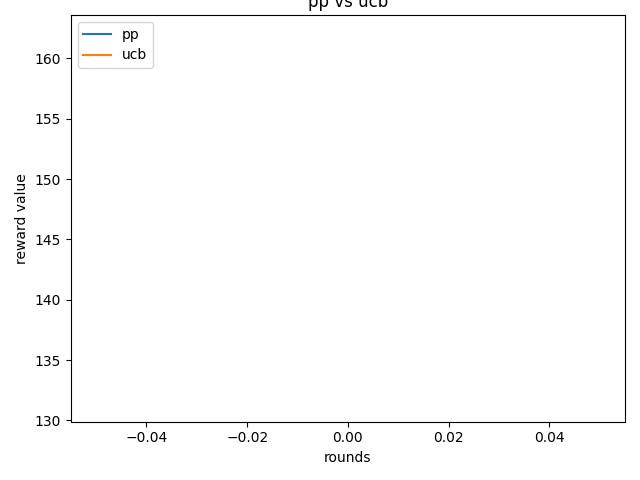
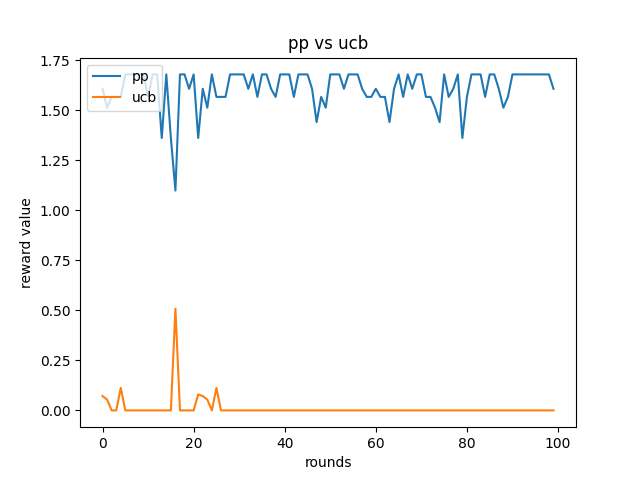
update plot

diff --git a/simulator.py b/simulator.py
@@ -207,6 +207,7 @@ def simulation(rounds=2):
         print("Reard for best action based on Perceptron: ", pp_reward)
         pp_total_reward += pp_reward
         print("\npp total_reward=", pp_total_reward)
+        pp_total_reward_dataset.append(pp_reward)
 
         #Obtain feedback by selecting from calendars with rewards greater than or equal to the reward
         feedback_calendars = []
@@ -223,13 +224,11 @@ def simulation(rounds=2):
         feedback_reward = np.dot(preference, featureListGenerator(feedback, [number_of_slots]))
         pp_total_feedback_reward += feedback_reward
         print("\npp total_feedback_reward=", pp_total_feedback_reward)
+        pp_total_feedback_reward_dataset.append(feedback_reward)
 
         pp_total_regret += abs(pp_reward - feedback_reward)
+        pp_total_regret_dataset.append(abs(pp_reward - feedback_reward))
         print("\npp total_regret=", pp_total_regret)
-
-        pp_total_reward_dataset.append(pp_total_reward)
-        pp_total_feedback_reward_dataset.append(pp_total_feedback_reward)
-        pp_total_regret_dataset.append(pp_total_regret)
 
         #Update the weights based on the feedback
         phi_best_action = np.array(featureListGenerator(best_action, [number_of_slots]))
@@ -238,7 +237,7 @@ def simulation(rounds=2):
         w += phi_feedback - phi_best_action
 
     print("Final weights after simulation:", w)
-    plot_data(pp_total_feedback_reward, ucb_total_reward, "pp vs ucb", "pp.png")
+    plot_data(pp_total_reward_dataset, pp_total_regret_dataset, "pp vs ucb", "pp.png")
 
         # action_index = preference_perceptron.predict(feature_factors)
         # chosen_action = possible_calendars[action_index]
